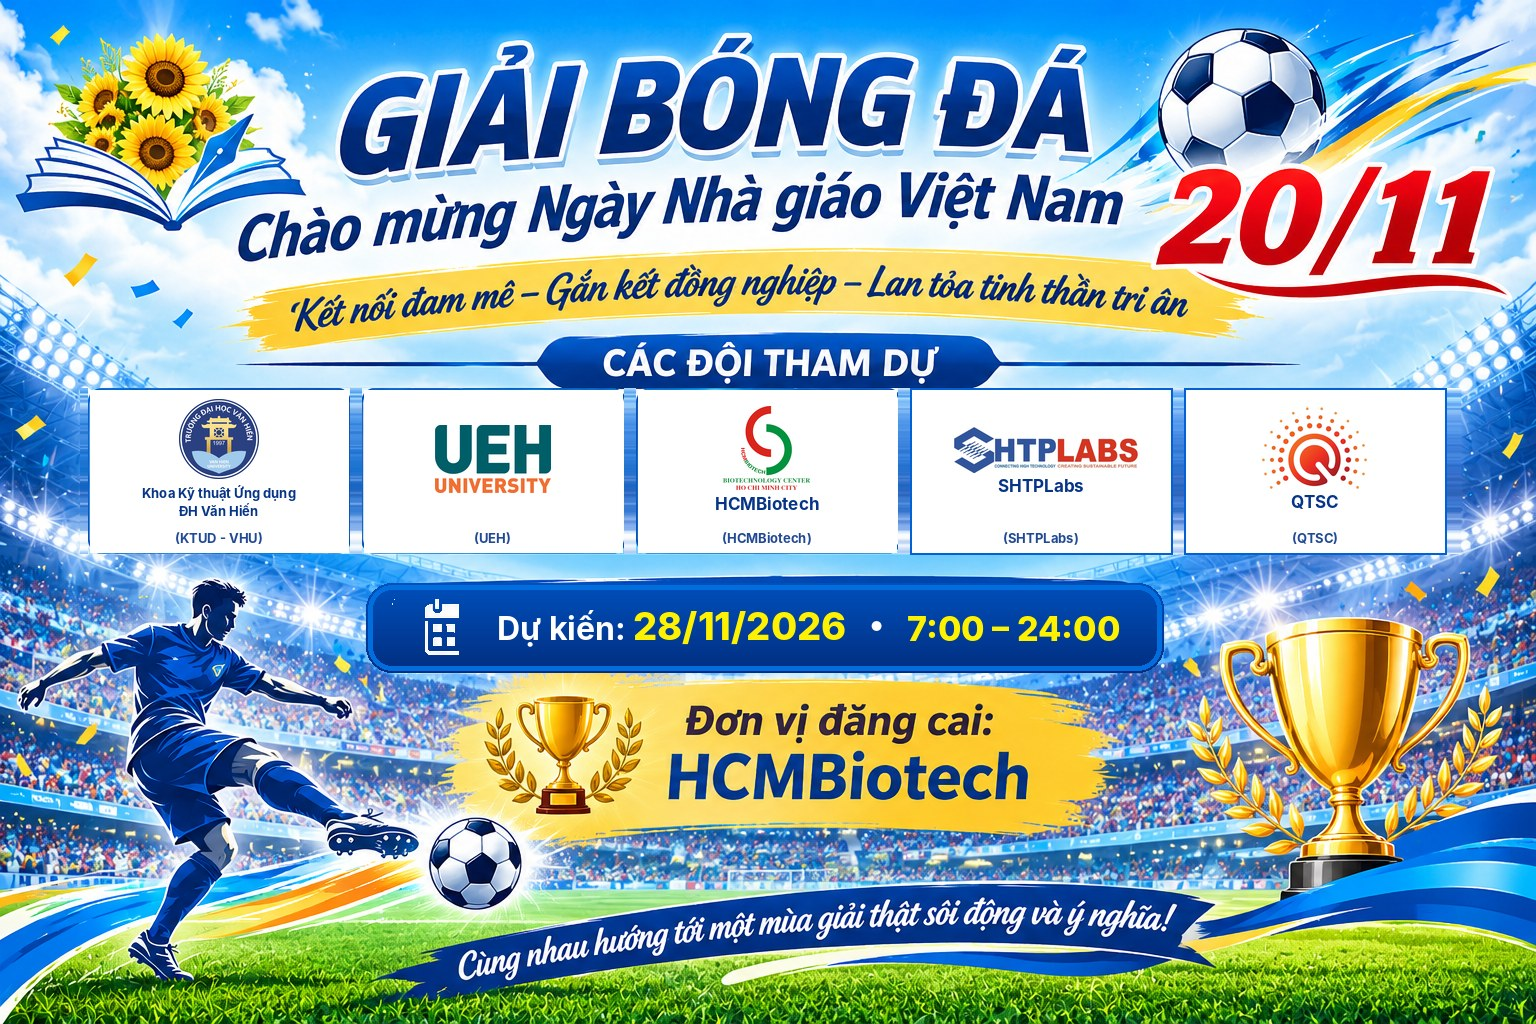
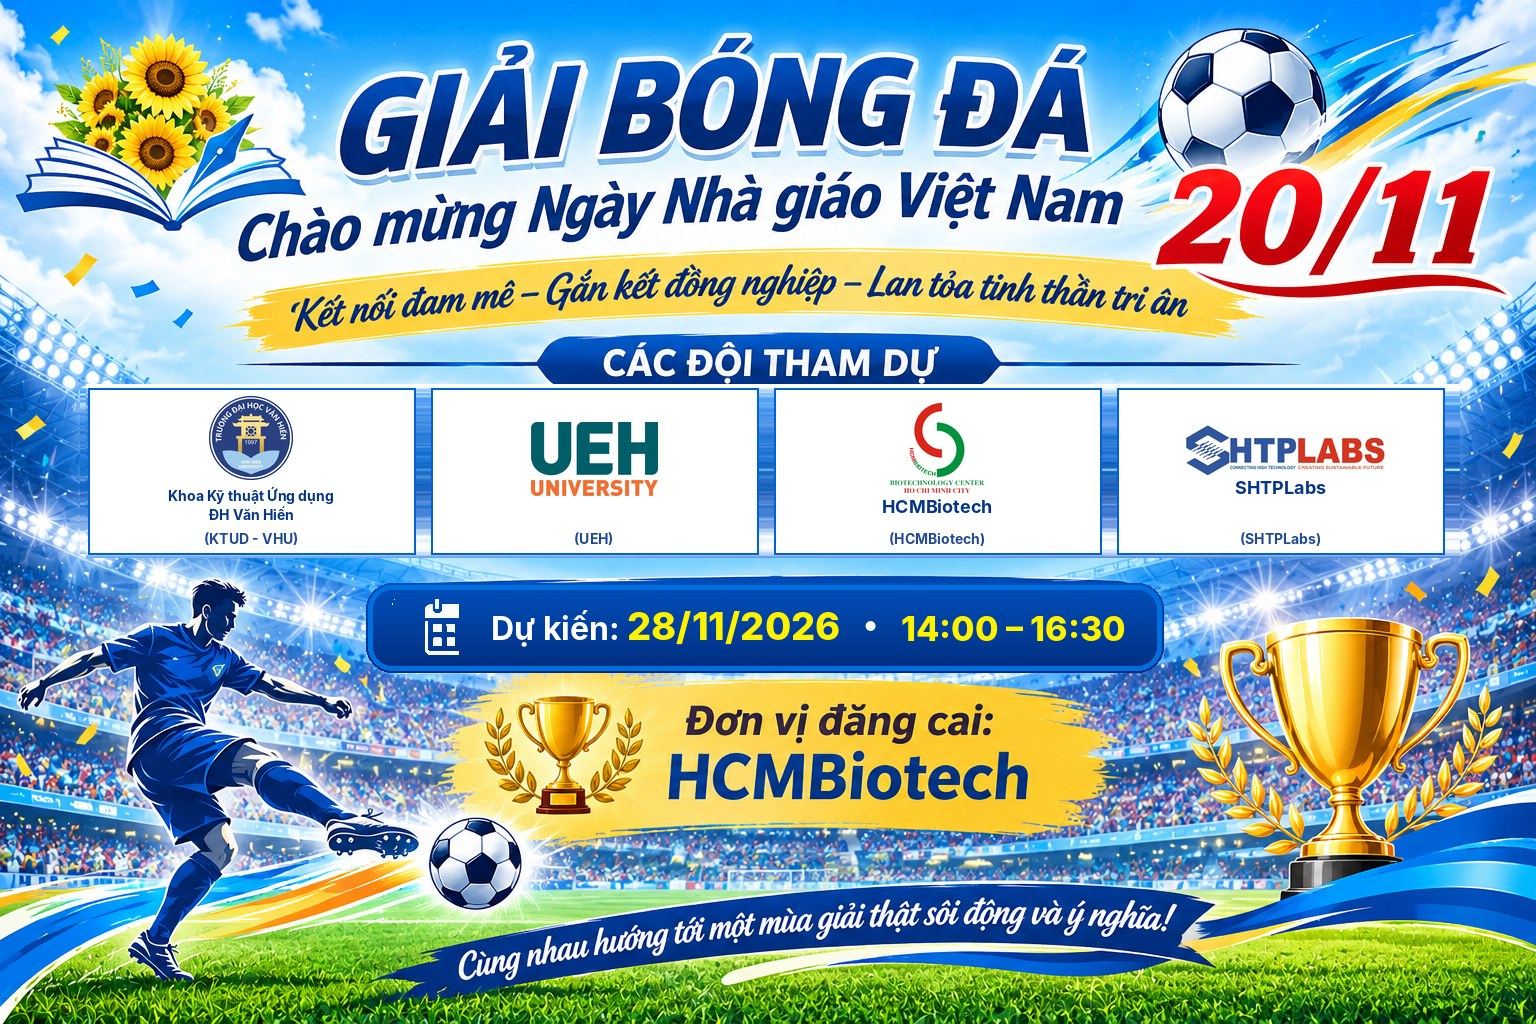
Set afternoon schedule, venue map link, refreshed poster
Lịch chuyển sang buổi chiều 28/11: bán kết 14:00–14:40 (Sân 1 & Sân 2
song song), tranh hạng Ba 14:45–15:30 (Sân 1), chung kết 15:40–16:30
(Sân 1). Thêm ô Địa điểm với link Google Maps, đổi đồng hồ đếm ngược về
14:00, cập nhật sơ đồ nhánh kèm giờ/sân, và thay ảnh poster (4 đội,
14:00–16:30).

Claude-Session: https://claude.ai/code/session_013nPP22gTa5J1UTYCZ2vbKy

Changed region(s): [[0.0625, 0.375, 0.9062, 0.5625], [0.3125, 0.5938, 0.75, 0.625], [0.9375, 0.375, 0.9688, 0.5625]]

diff --git a/football/index.html b/football/index.html
@@ -60,6 +60,8 @@ a{color:inherit;text-decoration:none}
 /* INFO STRIP */
 .info{margin-top:-36px;position:relative;z-index:5}
 .info .grid{display:grid;grid-template-columns:repeat(3,1fr);gap:18px}
+.info .grid4{grid-template-columns:repeat(4,1fr)}
+.card p a{text-decoration:none;font-weight:800}
 .card{background:#fff;border-radius:16px;padding:22px;box-shadow:0 12px 30px rgba(10,40,100,.1);
   border:1px solid #e6eefc;text-align:center;transition:.25s}
 .card:hover{transform:translateY(-4px);box-shadow:0 18px 40px rgba(10,40,100,.16)}
@@ -148,7 +150,7 @@ section{padding:62px 0}
 .timetable table{width:100%;border-collapse:collapse}
 .timetable th{background:#eef4ff;color:var(--navy);text-align:left;padding:9px 18px;font-size:.82rem}
 .timetable td{padding:11px 18px;border-top:1px solid #eef2fa;font-size:.95rem}
-.timetable td:first-child{font-weight:800;color:var(--blue);width:70px;white-space:nowrap}
+.timetable td:first-child{font-weight:800;color:var(--blue);width:128px;white-space:nowrap}
 .timetable tr:last-child td{background:#fffaed;font-weight:600}
 
 /* REGISTRATION */
@@ -223,9 +225,10 @@ footer .meta a{color:var(--yellow)}
 </header>
 
 <div class="info wrap">
-  <div class="grid">
+  <div class="grid grid4">
     <div class="card"><div class="ic">📅</div><h3>Ngày thi đấu</h3><p>28/11/2026</p></div>
-    <div class="card"><div class="ic">⏰</div><h3>Thời gian</h3><p>Buổi sáng · từ 7:00</p></div>
+    <div class="card"><div class="ic">⏰</div><h3>Thời gian</h3><p>Chiều · 14:00 – 16:30</p></div>
+    <div class="card"><div class="ic">📍</div><h3>Địa điểm</h3><p><a href="https://maps.app.goo.gl/c2wPshVpUugiSWyw9" target="_blank" rel="noopener" style="color:var(--blue)">Xem bản đồ ↗</a></p></div>
     <div class="card"><div class="ic">🏟</div><h3>Đơn vị đăng cai</h3><p>HCMBiotech</p></div>
   </div>
 </div>
@@ -297,27 +300,25 @@ footer .meta a{color:var(--yellow)}
     <div class="bracket bracket-2">
       <div class="round">
         <div class="rtitle">Bán kết</div>
-        <div class="match"><span class="t">Đội A</span><span class="vs">vs</span><span class="t">Đội B</span><small>Bán kết 1</small></div>
-        <div class="match"><span class="t">Đội C</span><span class="vs">vs</span><span class="t">Đội D</span><small>Bán kết 2</small></div>
+        <div class="match"><span class="t">Đội A</span><span class="vs">vs</span><span class="t">Đội B</span><small>Bán kết 1 · 14:00 · Sân 1</small></div>
+        <div class="match"><span class="t">Đội C</span><span class="vs">vs</span><span class="t">Đội D</span><small>Bán kết 2 · 14:00 · Sân 2</small></div>
       </div>
       <div class="round">
         <div class="rtitle">Chung kết &amp; hạng Ba</div>
-        <div class="match gold"><span class="t">Thắng BK1</span><span class="vs">vs</span><span class="t">Thắng BK2</span><small>🏆 Chung kết</small></div>
-        <div class="match bronze"><span class="t">Thua BK1</span><span class="vs">vs</span><span class="t">Thua BK2</span><small>🥉 Tranh hạng Ba</small></div>
+        <div class="match gold"><span class="t">Thắng BK1</span><span class="vs">vs</span><span class="t">Thắng BK2</span><small>🏆 Chung kết · 15:40 · Sân 1</small></div>
+        <div class="match bronze"><span class="t">Thua BK1</span><span class="vs">vs</span><span class="t">Thua BK2</span><small>🥉 Tranh hạng Ba · 14:45 · Sân 1</small></div>
       </div>
     </div>
 
     <div class="timetable">
-      <div class="tt-head">Khung giờ dự kiến — Sáng 28/11/2026 <span>(1 sân · nếu có 2 sân, 2 bán kết đá song song để rút ngắn)</span></div>
+      <div class="tt-head">Khung giờ thi đấu — Chiều 28/11/2026 <span>(2 trận bán kết đá song song trên 2 sân)</span></div>
       <table>
         <tr><th>Giờ</th><th>Nội dung</th></tr>
-        <tr><td>7:00</td><td>Khai mạc &amp; bốc thăm chia cặp</td></tr>
-        <tr><td>7:30</td><td>Bán kết 1</td></tr>
-        <tr><td>8:20</td><td>Bán kết 2</td></tr>
-        <tr><td>9:10</td><td>Giải lao</td></tr>
-        <tr><td>9:25</td><td>Tranh hạng Ba</td></tr>
-        <tr><td>10:15</td><td>Chung kết</td></tr>
-        <tr><td>11:05</td><td>Trao giải &amp; bế mạc</td></tr>
+        <tr><td>13:30 – 14:00</td><td>Khai mạc &amp; bốc thăm chia cặp</td></tr>
+        <tr><td>14:00 – 14:40</td><td>Bán kết 1 (Sân 1) · Bán kết 2 (Sân 2)</td></tr>
+        <tr><td>14:45 – 15:30</td><td>Tranh hạng Ba (Sân 1)</td></tr>
+        <tr><td>15:40 – 16:30</td><td>Chung kết (Sân 1)</td></tr>
+        <tr><td>16:30</td><td>Trao giải &amp; bế mạc</td></tr>
       </table>
     </div>
   </div>
@@ -391,7 +392,7 @@ document.querySelectorAll('#menu a').forEach(a=>a.addEventListener('click',()=>{
   document.getElementById('menu').classList.remove('open');
 }));
 // Countdown to 28/11/2026 07:00 (UTC+7)
-const target=new Date('2026-11-28T07:00:00+07:00').getTime();
+const target=new Date('2026-11-28T14:00:00+07:00').getTime();
 function tick(){
   const now=Date.now(), gap=target-now;
   const set=(id,v)=>document.getElementById(id).textContent=String(Math.max(0,v)).padStart(2,'0');
